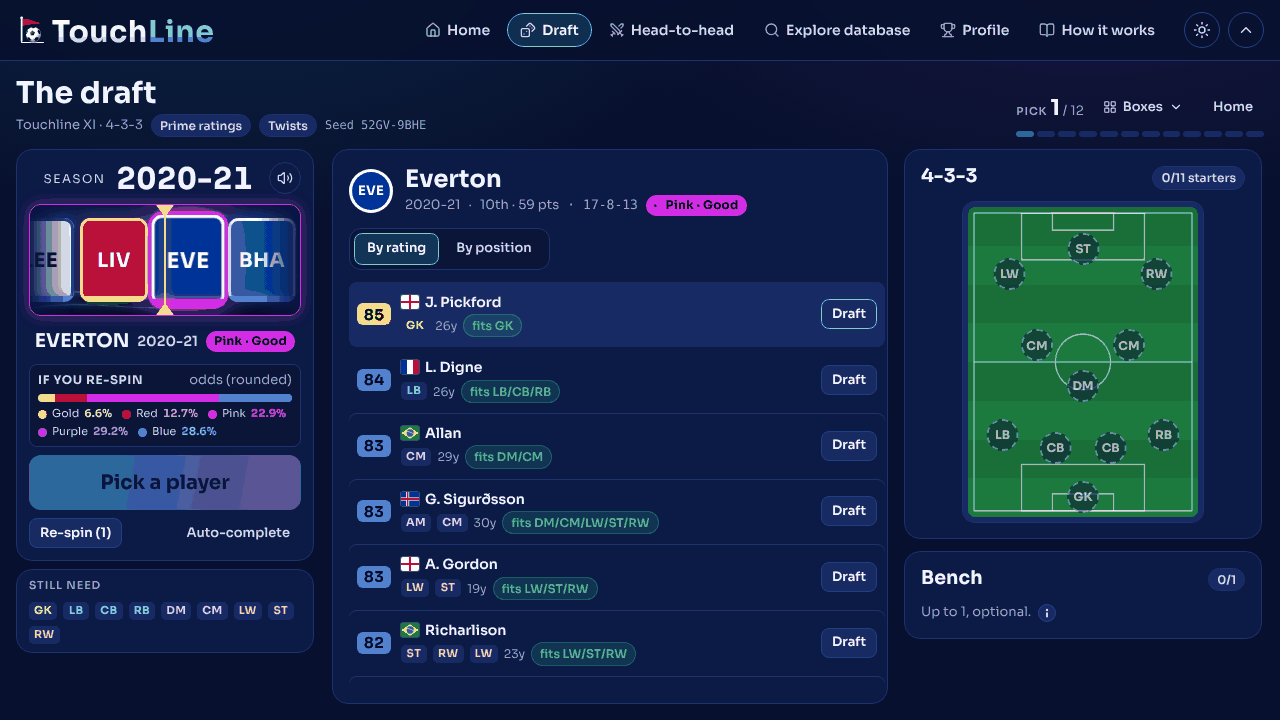
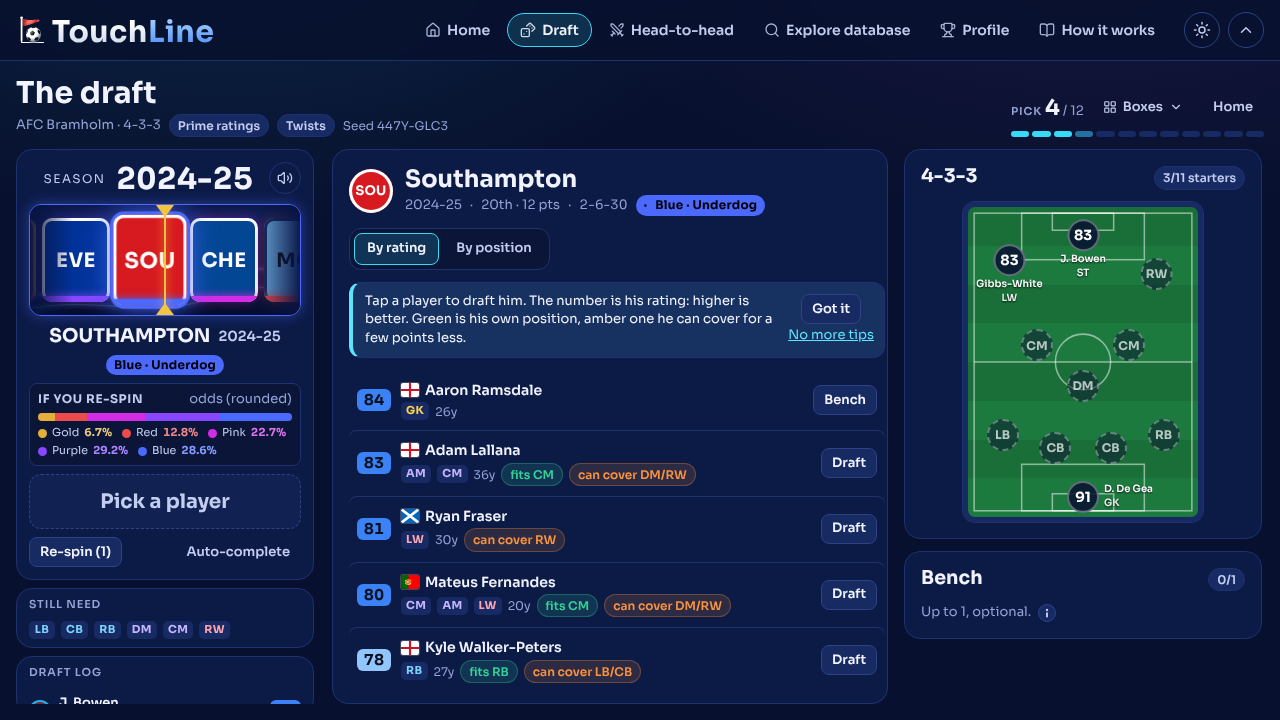
Docs: retaken screenshots, a shorter Office line, change log
The README's eight screenshots retaken at 1280x720 Floodlit after round 8,
How it works' Office tile shortened so its row keeps the others' height,
CLAUDE.md's test count for main at #89, and the change-log lines.

Claude-Session: https://claude.ai/code/session_01EJNkbWVML5SdEU4uiA7Gb5

diff --git a/src/ui/i18n/en/howto.ts b/src/ui/i18n/en/howto.ts
@@ -62,7 +62,7 @@ export const howto = catalog('howto', {
   fDevelopmentTitle: 'Development',
   fDevelopment: 'Every five matchweeks the young who play grow and veterans fade.',
   fOfficeTitle: 'The Office',
-  fOffice: 'Negotiate a fee and then personal terms, counter bids for your players, answer transfer requests, keep the promises you make, talk to players and, if you like, face the press. Player power, an option, lets unhappy players ask to leave on their own.',
+  fOffice: 'Fee talks and personal terms, counters to bids, transfer requests, promises, player talks and the press. Player power is optional.',
   fBoardTitle: 'The board',
   fBoard: 'A target from your squad’s strength; with job security on, it can sack you.',
   mDailyTitle: 'Daily Challenge',

diff --git a/docs/HANDOVER.md b/docs/HANDOVER.md
@@ -947,3 +947,5 @@ Newest at the bottom. Format: date (UTC) · who · what changed · link.
 - 2026-10-28 · Claude (r8 a11y) · `claude/r8-a11y`: 200 % text on a 390 px phone: Profile's Trophy cabinet plaques are sized in rem (`visuals.css`; 19 px past the window before) and the hot-seat "Start the head-to-head" wraps (23 px).
 - 2026-10-28 · Claude (r8 a11y) · `claude/r8-a11y` checks: axe-core 4.10.2 over about 200 states a side in both themes at 1280x720 and 390x844, 214 failing nodes before and 0 after (ACCESSIBILITY.md section 3d); the keyboard harness over the new paths; `npm ci`, typecheck, `npx vitest run --testTimeout=180000` 2,092 passed (22 skipped) in 285 files, `rm -rf dist && npm run build` with `dist/edge` unchanged (`verifier-37d256f009b3b3e9.js`, `verifier-5e7764386729eb13.js`, `verifier-603b905d0570f641.js`, `verifier-f088fc41409257f9.js`), the `BUDGET_DIST=1` budget and `check:dist-keys` pass; Playwright smokes in Floodlit and Daylight at 1280x720 and 390x844 with no page error.
 - 2026-10-28 · Claude (main session) · round 8 (#88, squash 9b4e8a0) live at 20:02 UTC and `touchline-e7` redeployed at 20:03 pinning `verifier-ecc269657e48639b.js`; `claude/r8-a11y` merged after it on `batch5` (dd9a6bd), main's code kept and round 4 applied on top: `GroupTables.tsx` is r8-ui-season's version with the short heads, fixtures and results read in full (`Abbr`, sr-only "your side" and the row's through / top two / out words), the branch's duplicate `summary` keys dropped for main's (`groupPlayedTip` and the rest) plus `groupPlace`, `groupYou`, `groupRecordTip`, `groupNotYet`, `groupResult`; Explore's `RowToggle` is a real button now that the compare and shortlist toggles ride in `PlayerRow`'s `actions` (main's `ShortlistStar` kept, the branch's `Star`/`SearchStar` dropped); the radio keys on main's translated Dugout chips, shouts, manager cards and Stats switch (new `stPlayersFrom`); storyline form through `resultsLabel` with `story`'s `formAria` as its lead and the story chip's sentence as `chipSaid`; the renewal list's named buttons and an awaited `askConfirm` (main's `letGoConfirm` wording kept); the phone `.prow-shell` rule placed before "Reduced motion, last word". `a11yRound4.test.ts` follows main's group wording ("Through to the quarter-finals", "Group matchday 1", "after league matchweek 7"). Typecheck clean, `npx vitest run` 2,354 passed (22 skipped) in 322 files (4 skipped), no errors; build and the `BUDGET_DIST=1` budget pass; edge bundle sha256 unchanged (`ecc26965…`).
+- 2026-10-29 · Claude (r9 docs) · `claude/r9-docs` (from `main` d76e552; docs and How it works only, no draw, no save field, ENGINE_VERSION `'7'`, `dist/edge` unchanged with `verifier-ecc269657e48639b.js`): every document checked against the code after engine 7, the Daily rotation, the eased Super League, round 8 and accessibility round 4. FEATURES: the Daily's rotation from 2026-10-30, the Super League a rating point below full strength (with its 250-seed figures), cloud saves slot by slot, invented team names on every setup, the phone's dock. GAME_DESIGN: round 8's share card (`mode`, `beatMe`, `versus`, `tidyShareText`, Home's nudges), the player card as a profile and Explore's indexes, the World screen's seven boards, the cloud slots and `progressKey`, the casual boards and error reports (section 15). How it works: the Daily's rotation, the eased Super League, an Office tile in Season mode, every world board and the rooms. README: the boards, the Continental Cup's groups, Dynasty renewals, share cards and player profiles in the summary, and the eight screenshots in `docs/images/` retaken at 1280x720 Floodlit (Home after round 8 dropped its menu tiles). ONLINE section 5f: error reports are live. This file: section 0 and section 2's opening and modes brought to `main` at #89.
+- 2026-10-29 · Claude (r9 docs) · `claude/r9-docs`: CLAUDE.md's Work in progress rewritten from section 0 (it still said `main` was engine 5): `main` on engine 7 at #89, the live loader's bundle, round 9, what waits for engine 8 (`45f5754` on `claude/r8-audit-engine`), the parked and on-hold branches and the owner's list. Merged the duplicate lines (two `npm test` entries, now 2,376 tests in 326 files on `main`; two `src/online/` entries), and dropped "not applied yet" from the engine 7 migrations, which are applied. Every invariant kept. Checks: typecheck, the full `npx vitest run` (322 files passed, 4 skipped; 2,353 tests passed, 23 skipped; no RPC errors), `npm run build`, the `BUDGET_DIST=1` budget, `check:dist-keys`, and Playwright smokes from a cleared save (Quick Draft from Home to its summary, Season to a live match through 45' and 70', How it works) at 1280x720 Floodlit and 390x844 touch Daylight with no page error and no page scroll on the Dugout and How it works at 1280.

diff --git a/CLAUDE.md b/CLAUDE.md
@@ -114,7 +114,7 @@ Node >= 22.13 (`package.json` engines; CI uses 22).
 - `npm ci` install exactly from the lockfile.
 - `npm run dev` Vite dev server (no service worker in dev).
 - `QA_FULL=1 npx vitest run src/game/__tests__/qa src/ui/__tests__/qa` the QA sweeps at their full seed counts (`docs/QA.md`; by default they run about a third, each test under 60 s). `src/game/__tests__/qaHarness.ts` and `qaSeasonHarness.ts` drive any mode through the store with a test-side `Chooser` and check the invariants; `src/ui/__tests__/qaSsr.ts` server-renders a component from the store (`show`, `renderProblems`, `markupProblems`).
-- `npm test` Vitest over `src/**/*.test.ts`, the gate (about eight minutes on 4 cores, 2,102 tests (23 skipped) in 284 files on `release-e7` (2026-10-28), the QA sweeps included, `playWeekSoon.test.ts` and `qaQuick.test.ts` the slowest files at about 1.5 minutes each). `vitest.config.ts` runs one worker per core, starts the files in `SLOW_FILES` first (it throws if one is renamed away; add a new file of 15 s or more there) and gives every test 60 s unless it names its own timeout. `npm run test:fast` (`vitest.fast.config.ts`) is the same minus `SLOW_FILES` (about four minutes, 1,914 tests), for local loops only. `npx vitest run src/engine` or `src/game` for one area; `npx vitest run --shard=1/3` is one CI shard.
+- `npm test` Vitest over `src/**/*.test.ts`, the gate (about eight minutes on 4 cores, 2,376 tests (23 skipped) in 326 files on `main` at #89 (2026-10-29), the QA sweeps included, `playWeekSoon.test.ts` and `qaQuick.test.ts` the slowest files at about 1.5 minutes each). `vitest.config.ts` runs one worker per core, starts the files in `SLOW_FILES` first (it throws if one is renamed away; add a new file of 15 s or more there) and gives every test 60 s unless it names its own timeout. `npm run test:fast` (`vitest.fast.config.ts`) is the same minus `SLOW_FILES` (about four minutes, 1,914 tests), for local loops only. `npx vitest run src/engine` or `src/game` for one area; `npx vitest run --shard=1/3` is one CI shard.
 - `GAMEPLAY_SWEEP=1 GAMEPLAY_N=2 npx vitest run src/game/__tests__/gameplay --maxWorkers=3` the gameplay sweep (skipped without the variable, about 25 minutes): every mode through the store, every match checked against its own sheets by `recorder.ts` (a `vi.mock` of `@engine/match`), whole games by `gameChecks.ts`, the feel against the real tables; the report goes to `.gameplay/` (gitignored). Its findings that need an engine change are `docs/ENGINE6.md`.
 - `npm run typecheck` `tsc -b --noEmit`. `npm run lint` is the same command; there is no ESLint or Prettier.
 - `npm run build` `tsc -b && vite build` into `dist/` (what Render runs).

diff --git a/README.md b/README.md
@@ -18,7 +18,7 @@ Your drafted side takes one real club's place in a real league season and plays 
 
 | Home | The draft |
 | --- | --- |
-| ![Home: Quick Draft, the Daily Challenge, Season and Dynasty, with the casual modes below](docs/images/home.png) | ![The wheel has landed on Everton 2020-21: pick one player from the squad](docs/images/draft.png) |
+| ![Home: the first draft in three steps, Quick Draft, the Daily Challenge, Season and Dynasty, with the other modes below](docs/images/home.png) | ![The wheel has landed on Southampton 2024-25: pick one player from the squad](docs/images/draft.png) |
 
 | The draft recap | Squad complete |
 | --- | --- |
@@ -26,7 +26,7 @@ Your drafted side takes one real club's place in a real league season and plays 
 
 | The season, game by game | The summary |
 | --- | --- |
-| ![The quick season played back beside a live table and a league-position chart](docs/images/season-playback.png) | ![Champions on 82 points, the record against 38-0, then the Cup and the Continental Cup](docs/images/summary.png) |
+| ![The quick season played back beside a live table and a league-position chart](docs/images/season-playback.png) | ![Champions on 80 points, the record against 38-0, a new Trophy Room badge, then the Cup and the Continental Cup](docs/images/summary.png) |
 
 | The Dugout | Match day |
 | --- | --- |
